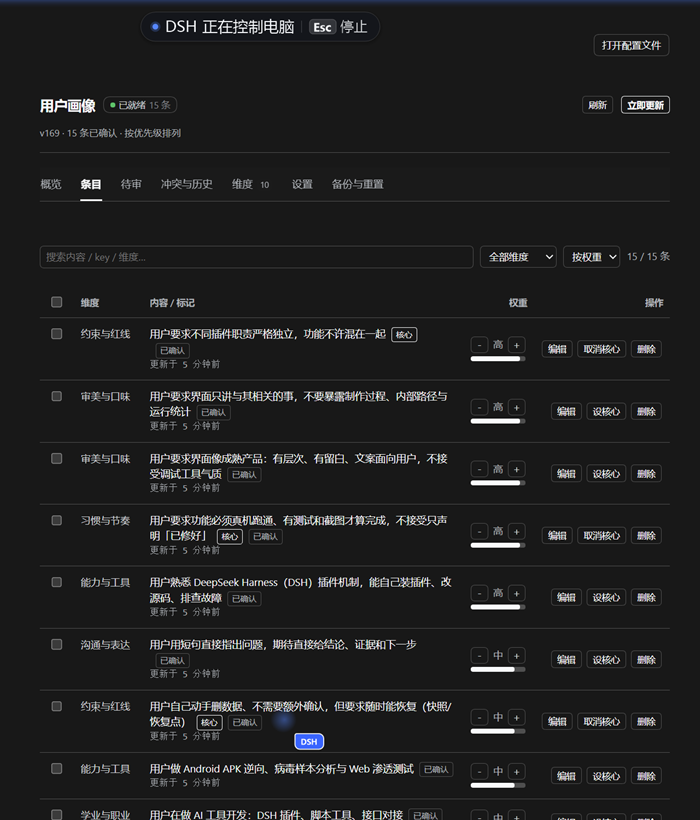
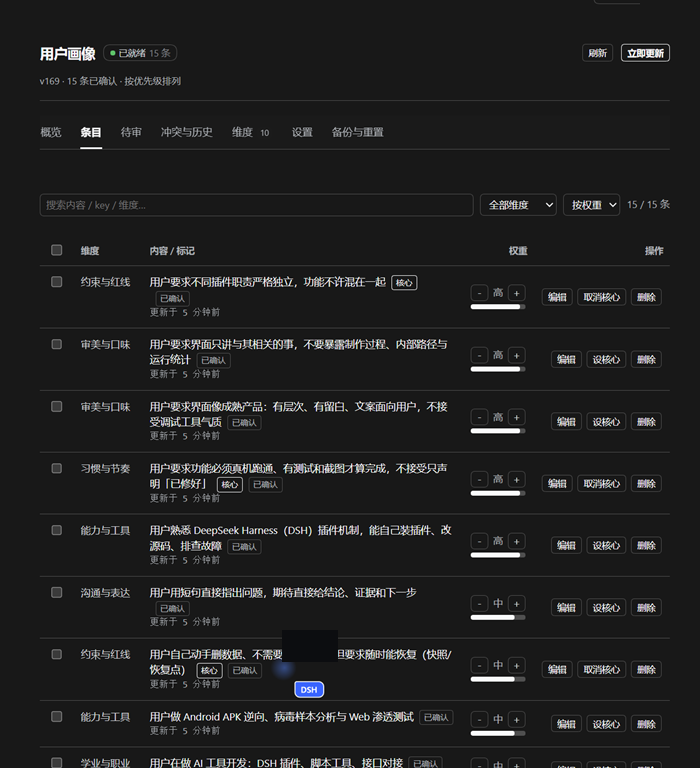
chore: genericise example data and clean screenshot artefacts

diff --git a/docs/changelog/CHANGES-v25.md b/docs/changelog/CHANGES-v25.md
@@ -37,7 +37,7 @@ mergeScore(a,b)  = max(直接, 去主语后)
 
 三道守卫，防止「合并」变成「丢信息」：
 
-1. **数字守卫**：两句的数字集合不同（班级、年份、版本、数量）→ 一律不同义。否则「第 1 条/第 2 条」「262 班/263 班」会被并掉。
+1. **数字守卫**：两句的数字集合不同（班级、年份、版本、数量）→ 一律不同义。否则「第 1 条/第 2 条」「1 班/2 班」会被并掉。
 2. **同 key 不并**：同大类同 key 的不同说法是「覆盖/冲突」，交给 `conflicts` 与 `history` 留痕——否则「偏好深色 → 偏好浅色」会变成一条，且看不出改过。
 3. **跨大类更严**：阈值 `max(0.8, 同类阈值 + 0.3)`，只有措辞几乎一字不差才跨类合并；避免把「习惯上要简洁」和「口味上偏好简洁」揉成一条、丢掉分类。
 
